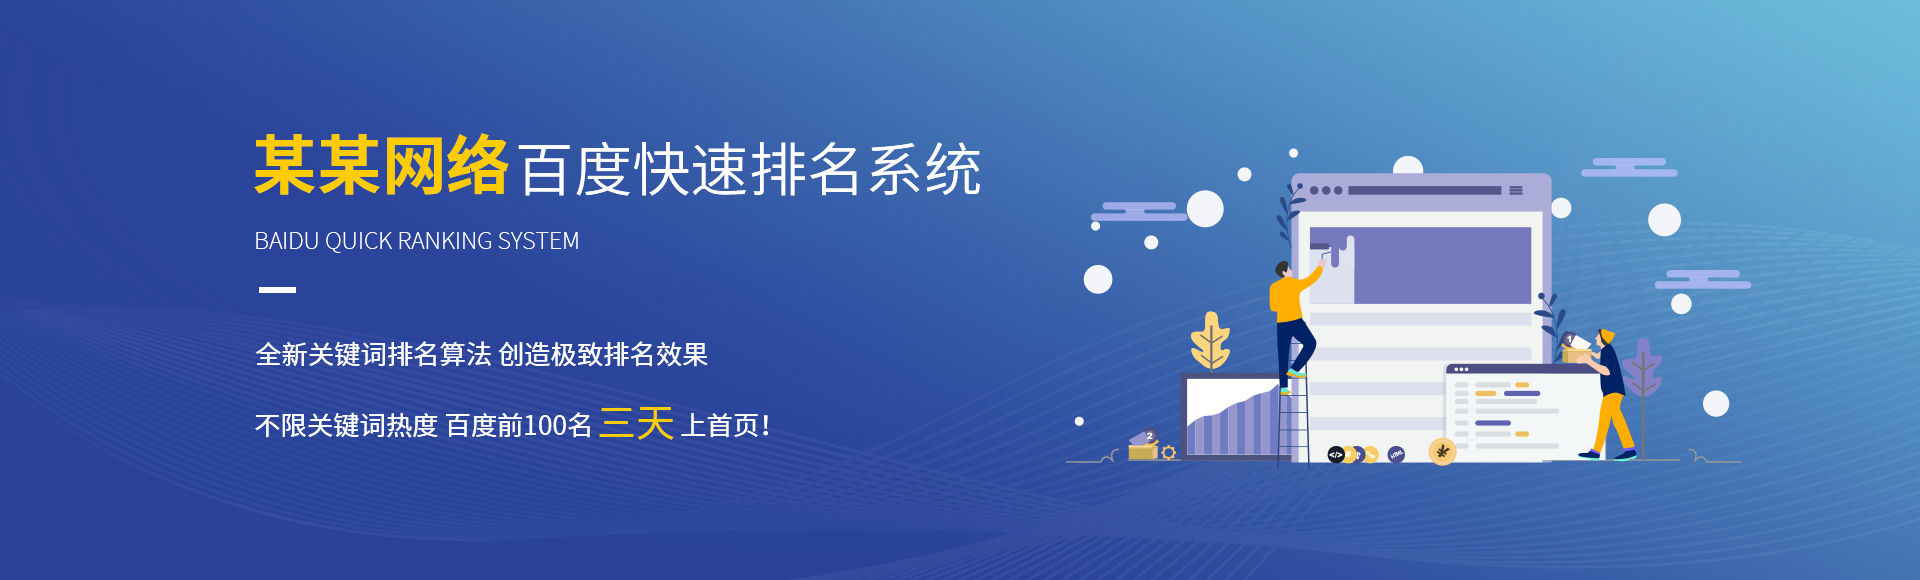
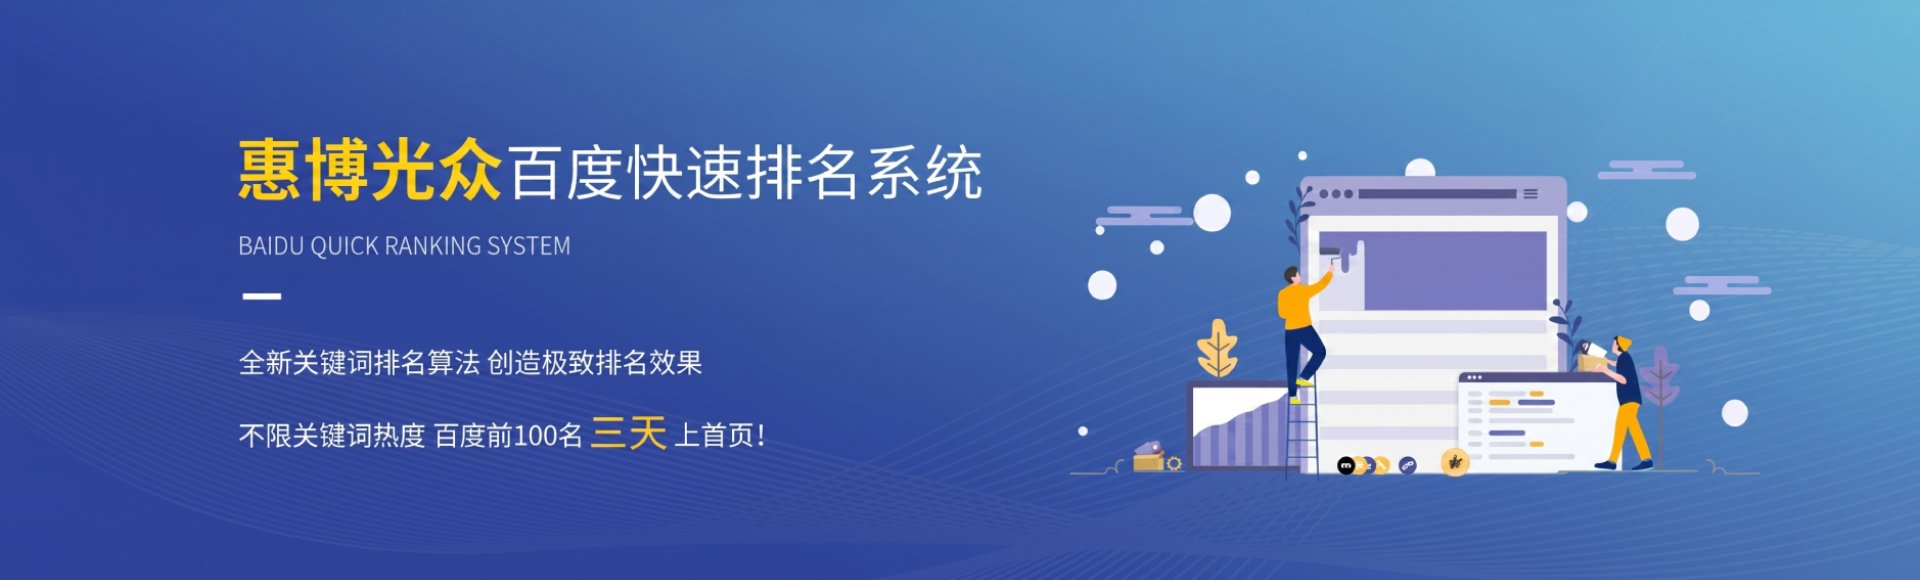
chore: 更新产品链接为动态域名，优化用户联系体验

diff --git a/template/dafeult/web.html b/template/dafeult/web.html
@@ -53,7 +53,7 @@
               <p> 坚定信念，相信判断</p>
               <p> 寻找适合的推广模式，平常人善于等待机遇</p>
               <p> 智慧者该如何创造机遇？</p>
-              <a href="tencent://message/?uin={pboot:companyqq}&amp;Site=www.adminbuy.cn&amp;Menu=yes" rel="nofollow" target="_blank">立即体验</a></div>
+              <a href="{pboot:sitedomain}/?contact/" rel="nofollow" target="_blank">立即体验</a></div>
           </div>
         </li>
         <li>
@@ -63,7 +63,7 @@
               <p> 摆脱传统网站模式，全新面貌展示</p>
               <p> 提升用户体验，增加互动模块，SEO优化布局</p>
               <p> 提高百度快照排名，提升市场竞争力</p>
-              <a href="tencent://message/?uin={pboot:companyqq}&amp;Site=www.adminbuy.cn&amp;Menu=yes" rel="nofollow" target="_blank">立即体验</a></div>
+              <a href="{pboot:sitedomain}/?contact/" rel="nofollow" target="_blank">立即体验</a></div>
           </div>
         </li>
         <li>
@@ -73,7 +73,7 @@
               <p> 完善功能优化布局，规范企业网站职能</p>
               <p> 提升服务效能，网站的实用性、价值</p>
               <p> 形象突飞猛进</p>
-              <a href="tencent://message/?uin={pboot:companyqq}&amp;Site=www.adminbuy.cn&amp;Menu=yes" rel="nofollow" target="_blank">立即体验</a></div>
+              <a href="{pboot:sitedomain}/?contact/" rel="nofollow" target="_blank">立即体验</a></div>
           </div>
         </li>
         <li>
@@ -81,7 +81,7 @@
             <div class="fr"> <img src="{pboot:sitedomain}/skin/images/js4.png" /></div>
             <div class="fl"> <span>工作流程</span>
               <p> 从一个小想法开始，我们全程品质服务</p>
-              <a href="tencent://message/?uin={pboot:companyqq}&amp;Site=www.adminbuy.cn&amp;Menu=yes" rel="nofollow" target="_blank">立即体验</a></div>
+              <a href="{pboot:sitedomain}/?contact/" rel="nofollow" target="_blank">立即体验</a></div>
           </div>
         </li>
       </ul>
@@ -124,18 +124,20 @@
       <div class="list clearfix">
         <ul>
           <li>
-            <h3> <em>A</em>基础套餐</h3>
+            <h3> A基础套餐</h3>
+            <h3> 1000元</h3>
             <span>小企业品牌基础设计</span>
-            <p> 页面设计稿：10个</p>
+            <p> 页面设计稿：2个</p>
             <p> 人员：普通设计师1名</p>
             <p> 首页一版主视觉设计稿</p>
             <p> --</p>
             <p> --</p>
             <p> 定稿后：1次细节修改</p>
             <p> --</p>
-            <a href="tencent://message/?uin={pboot:companyqq}&amp;Site=www.adminbuy.cn&amp;Menu=yes" rel="nofollow" target="_blank">QQ询价</a></li>
+            <a href="{pboot:sitedomain}/?contact/" rel="nofollow" target="_blank">联系我们</a></li>
           <li class="on"> <i>热销中</i>
-            <h3> <em>B</em>经济套餐</h3>
+            <h3>经济套餐</h3>
+            <h3> 5000元</h3>
             <span>热销优质UI设计组合</span>
             <p> 页面设计稿：15个</p>
             <p> 人员：资深设计师1名</p>
@@ -144,10 +146,11 @@
             <p> 驻场配合：1名设计师</p>
             <p> 定稿后：2次细节修改</p>
             <p> --</p>
-            <a href="tencent://message/?uin={pboot:companyqq}&amp;Site=www.adminbuy.cn&amp;Menu=yes" rel="nofollow" target="_blank">QQ询价</a></li>
+            <a href="{pboot:sitedomain}/?contact/" rel="nofollow" target="_blank">联系我们</a></li>
           <li>
-            <h3> <em>C</em>高级套餐</h3>
-            <span>全方位设计+程序组合</span>
+            <h3> 高级套餐</h3>
+            <h3> 10000元</h3>
+            <span>全方位设计+电商网站</span>
             <p> 页面设计稿：25个</p>
             <p> 人员：设计总监1名</p>
             <p> 首页三版主视觉设计稿</p>
@@ -155,9 +158,10 @@
             <p> 驻场配合：1名设计师</p>
             <p> 定稿后：3次细节修改</p>
             <p> --</p>
-            <a href="tencent://message/?uin={pboot:companyqq}&amp;Site=www.adminbuy.cn&amp;Menu=yes" rel="nofollow" target="_blank">QQ询价</a></li>
+            <a href="{pboot:sitedomain}/?contact/" rel="nofollow" target="_blank">联系我们</a></li>
           <li>
             <h3> <em>D</em>定制套餐</h3>
+            <h3> 联系咨询报价 </h3>
             <span>全定制尊享UI设计组合</span>
             <p> 页面设计稿：55个</p>
             <p> 人员：设计总监1名</p>
@@ -166,7 +170,7 @@
             <p> 驻场配合：3名设计师</p>
             <p> 定稿后：5次细节修改</p>
             <p> 维护期：1年免费</p>
-            <a href="tencent://message/?uin={pboot:companyqq}&amp;Site=www.adminbuy.cn&amp;Menu=yes" rel="nofollow" target="_blank">QQ询价</a></li>
+            <a href="{pboot:sitedomain}/?contact/" rel="nofollow" target="_blank">联系我们</a></li>
         </ul>
       </div>
     </div>

diff --git a/template/dafeult/seo.html b/template/dafeult/seo.html
@@ -185,7 +185,7 @@
         <script type="text/javascript">
                         jQuery("#seo_cases_list3").slide({mainCell:".bd ul",autoPlay:true,effect:"topMarquee",vis:4,interTime:50,trigger:"click"});
                     </script></div>
-      <a class="ot_more" href="tencent://message/?uin={pboot:companyqq}&amp;Site=www.adminbuy.cn&amp;Menu=yes" rel="nofollow" target="blank">购买产品</a></div>
+      <a class="ot_more" href="{pboot:sitedomain}/?contact/" rel="nofollow" target="blank">购买产品</a></div>
   </div>
 </div>
 {include file=foot.html}
